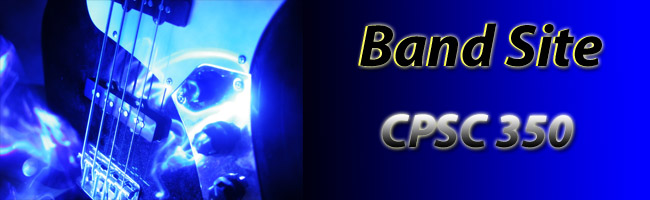
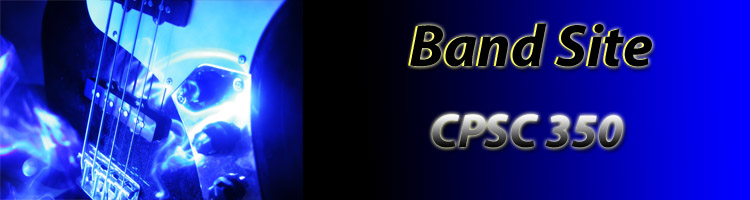
Updated template formatting

diff --git a/index.php b/index.php
@@ -28,13 +28,13 @@ function hoveroff(cell) {
 }
 </script>
 
-<table border="0" cellpadding="0" cellspacing="0" width="650">
+<table border="0" cellpadding="0" cellspacing="0" width="750">
 
-<tr><td colspan=2>
+<tr><td colspan="3">
 
-	<table border="1" bordercolor="white" cellpadding="0" cellspacing="0" width="650">
+	<table border="1" bordercolor="white" cellpadding="0" cellspacing="0" width="750">
 	<tr><td align="center">
-		<img src="header.jpg" border="0" width="650" height="200">
+		<img src="header.jpg" border="0" width="750" height="200">
 	</td></tr>
 	</table>
 
@@ -45,7 +45,7 @@ function hoveroff(cell) {
 	<td onMouseOver="hoveron(this)" onMouseOut="hoveroff(this)" align="center"><font size="2" color="<?php echo($headingtext); ?>"><a href = "index.php?page=venue_entry.html">Add a Venue</a></td>
 	<td onMouseOver="hoveron(this)" onMouseOut="hoveroff(this)" align="center"><font size="2" color="<?php echo($headingtext); ?>"><a href = "index.php?page=event_entry.php">Add an Event</a></td></tr>
 	</table>
-
+<br />
 </td></tr>
 
 <tr><td width="70%" align="left" valign="top">
@@ -70,7 +70,10 @@ if(isset($_GET['page']) && $_GET['page'] != "" && $_GET['page'] != "index.php") 
 ?>
 
 </td>
-<td width="30%" align="right" valign="top">
+
+<td width="2%">&nbsp;</td>
+
+<td width="28%" align="right" valign="top">
 
 <?php
 include("searchbar.php");
